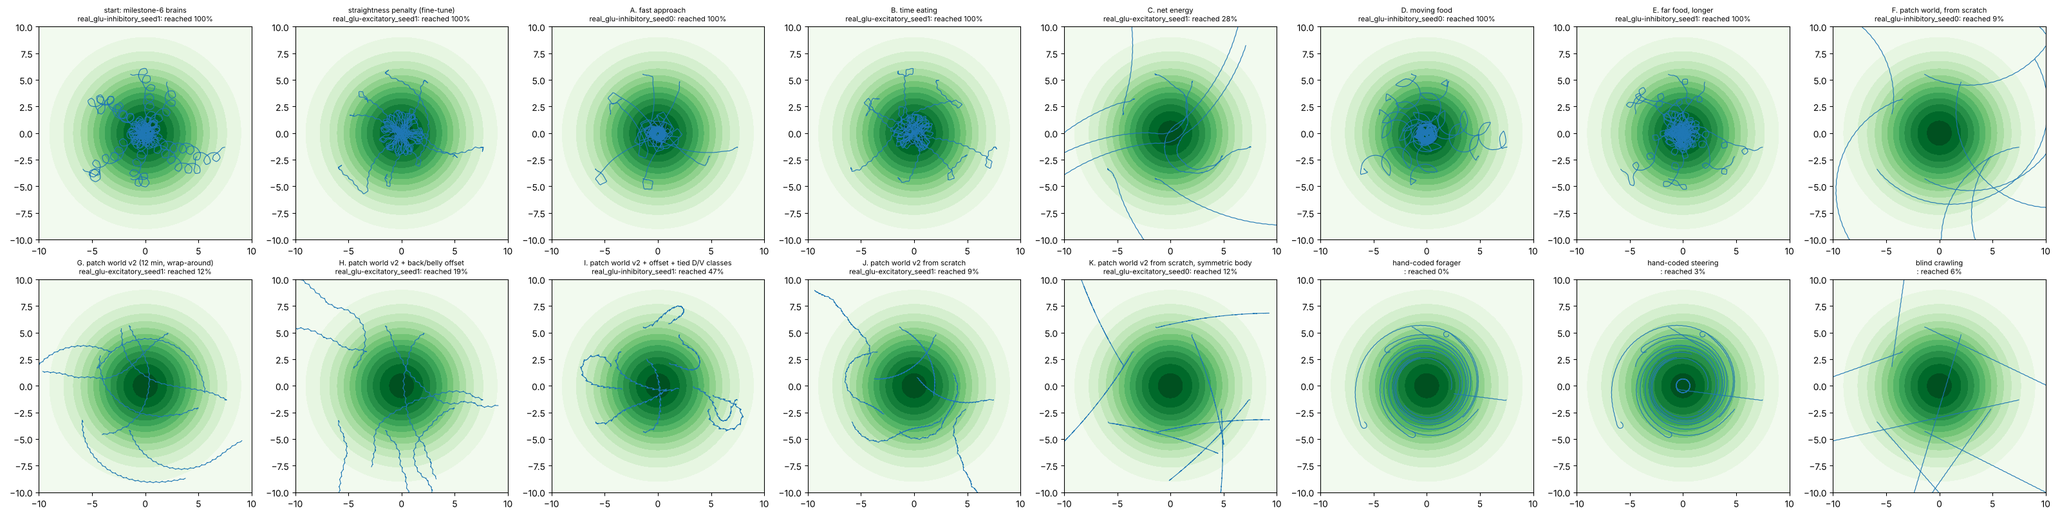
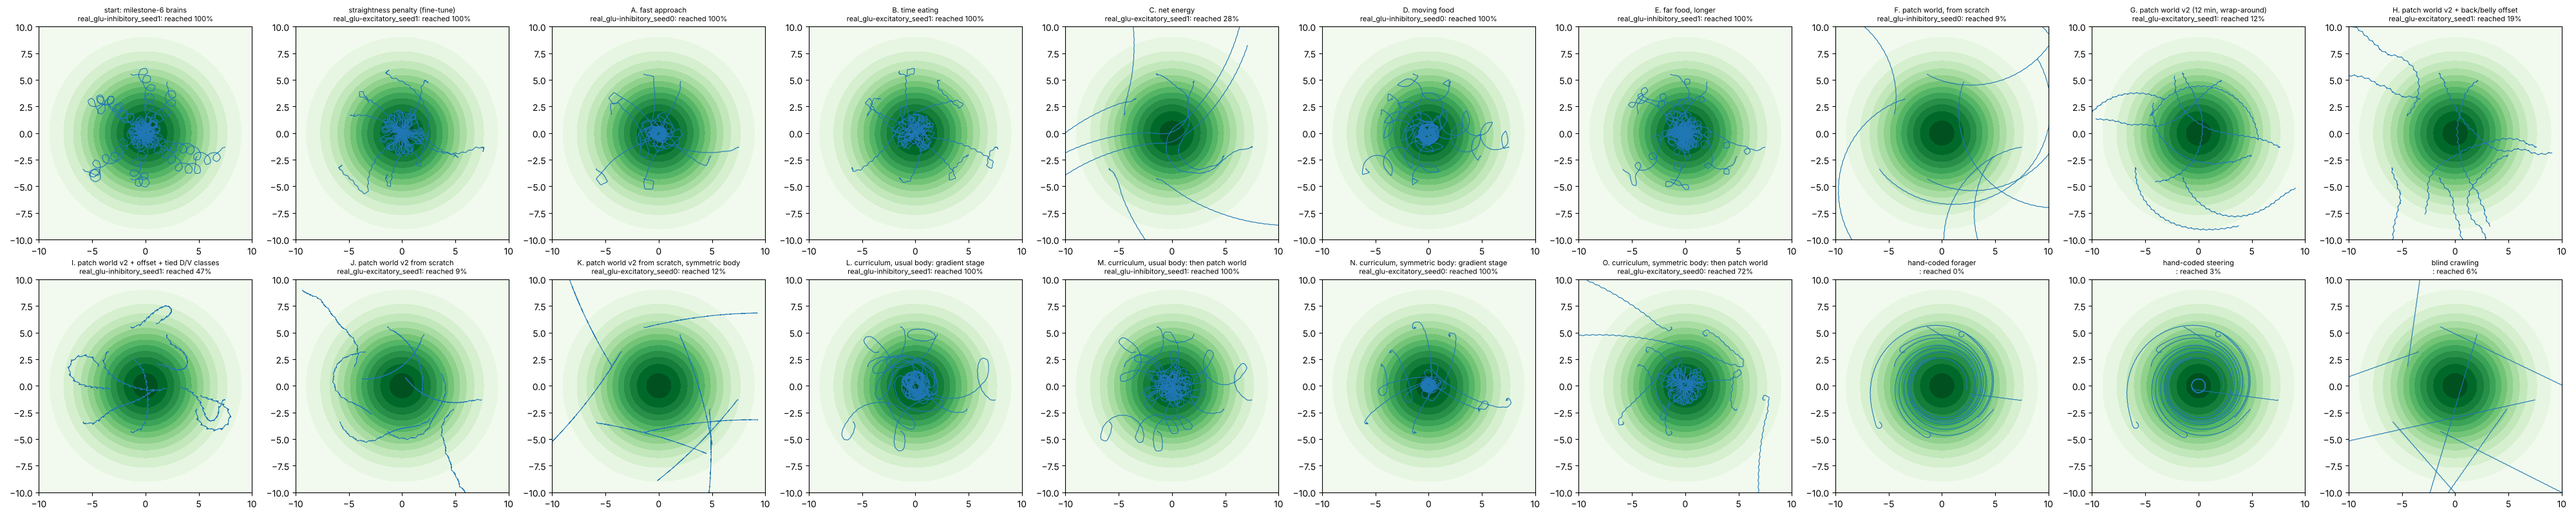
Natural-reward study: common tests including the curriculum
Claude-Session: https://claude.ai/code/session_014hVhNRfvdS3L9xvDdFvo3X

diff --git a/reports/natural_rewards/REPORT.md b/reports/natural_rewards/REPORT.md
@@ -54,6 +54,22 @@ Generated by `scripts/compare_natural.py`. Every brain is scored on the same tes
 | K. patch world v2 from scratch, symmetric body | real_glu-excitatory_seed1 | 6% | never | 0% | 44% | 3% | 71 | 0.41 |
 | K. patch world v2 from scratch, symmetric body | real_glu-inhibitory_seed0 | 6% | never | 1% | 34% | 6% | 1 | 0.69 |
 | K. patch world v2 from scratch, symmetric body | real_glu-inhibitory_seed1 | 6% | never | 0% | 12% | 0% | 2 | 0.57 |
+| L. curriculum, usual body: gradient stage | real_glu-excitatory_seed0 | 19% | never | 1% | 50% | 3% | 19 | 0.42 |
+| L. curriculum, usual body: gradient stage | real_glu-excitatory_seed1 | 100% | 65 s | 27% | 100% | 94% | 155 | 1.00 |
+| L. curriculum, usual body: gradient stage | real_glu-inhibitory_seed0 | 12% | never | 1% | 47% | 19% | 32 | 0.00 |
+| L. curriculum, usual body: gradient stage | real_glu-inhibitory_seed1 | 100% | 66 s | 28% | 100% | 50% | 70 | 1.33 |
+| M. curriculum, usual body: then patch world | real_glu-excitatory_seed0 | 6% | never | 1% | 44% | 3% | 42 | 0.55 |
+| M. curriculum, usual body: then patch world | real_glu-excitatory_seed1 | 62% | 111 s | 6% | 69% | 34% | 7 | 2.79 |
+| M. curriculum, usual body: then patch world | real_glu-inhibitory_seed0 | 6% | never | 1% | 38% | 0% | 5 | 0.68 |
+| M. curriculum, usual body: then patch world | real_glu-inhibitory_seed1 | 100% | 67 s | 26% | 100% | 94% | 75 | 3.51 |
+| N. curriculum, symmetric body: gradient stage | real_glu-excitatory_seed0 | 100% | 26 s | 80% | 100% | 100% | 259 | 1.09 |
+| N. curriculum, symmetric body: gradient stage | real_glu-excitatory_seed1 | 100% | 42 s | 34% | 100% | 100% | 125 | 0.51 |
+| N. curriculum, symmetric body: gradient stage | real_glu-inhibitory_seed0 | 94% | 82 s | 11% | 100% | 59% | 35 | 1.41 |
+| N. curriculum, symmetric body: gradient stage | real_glu-inhibitory_seed1 | 100% | 51 s | 37% | 100% | 88% | 95 | 0.66 |
+| O. curriculum, symmetric body: then patch world | real_glu-excitatory_seed0 | 72% | 51 s | 24% | 75% | 41% | 2 | 5.81 |
+| O. curriculum, symmetric body: then patch world | real_glu-excitatory_seed1 | 6% | never | 1% | 34% | 3% | 1 | 0.74 |
+| O. curriculum, symmetric body: then patch world | real_glu-inhibitory_seed0 | 97% | 78 s | 17% | 100% | 72% | 13 | 4.08 |
+| O. curriculum, symmetric body: then patch world | real_glu-inhibitory_seed1 | 34% | never | 2% | 100% | 41% | 12 | 5.23 |
 | hand-coded forager |  | 0% | never | 0% | 100% | 3% | 0 | 1.59 |
 | hand-coded steering |  | 3% | never | 2% | 100% | 9% | 0 | 1.59 |
 | blind crawling |  | 6% | never | 0% | 9% | 3% | 0 | 0.60 |
@@ -75,6 +91,10 @@ Generated by `scripts/compare_natural.py`. Every brain is scored on the same tes
 | I. patch world v2 + offset + tied D/V classes | 18% | 2% | 3% | 222 | 0.81 |
 | J. patch world v2 from scratch | 4% | 1% | 2% | 21 | 0.71 |
 | K. patch world v2 from scratch, symmetric body | 8% | 1% | 3% | 19 | 0.63 |
+| L. curriculum, usual body: gradient stage | 58% | 14% | 41% | 69 | 0.69 |
+| M. curriculum, usual body: then patch world | 44% | 8% | 33% | 32 | 1.88 |
+| N. curriculum, symmetric body: gradient stage | 98% | 41% | 87% | 128 | 0.92 |
+| O. curriculum, symmetric body: then patch world | 52% | 11% | 39% | 7 | 3.96 |
 | hand-coded forager | 0% | 0% | 3% | 0 | 1.59 |
 | hand-coded steering | 3% | 2% | 9% | 0 | 1.59 |
 | blind crawling | 6% | 0% | 3% | 0 | 0.60 |
